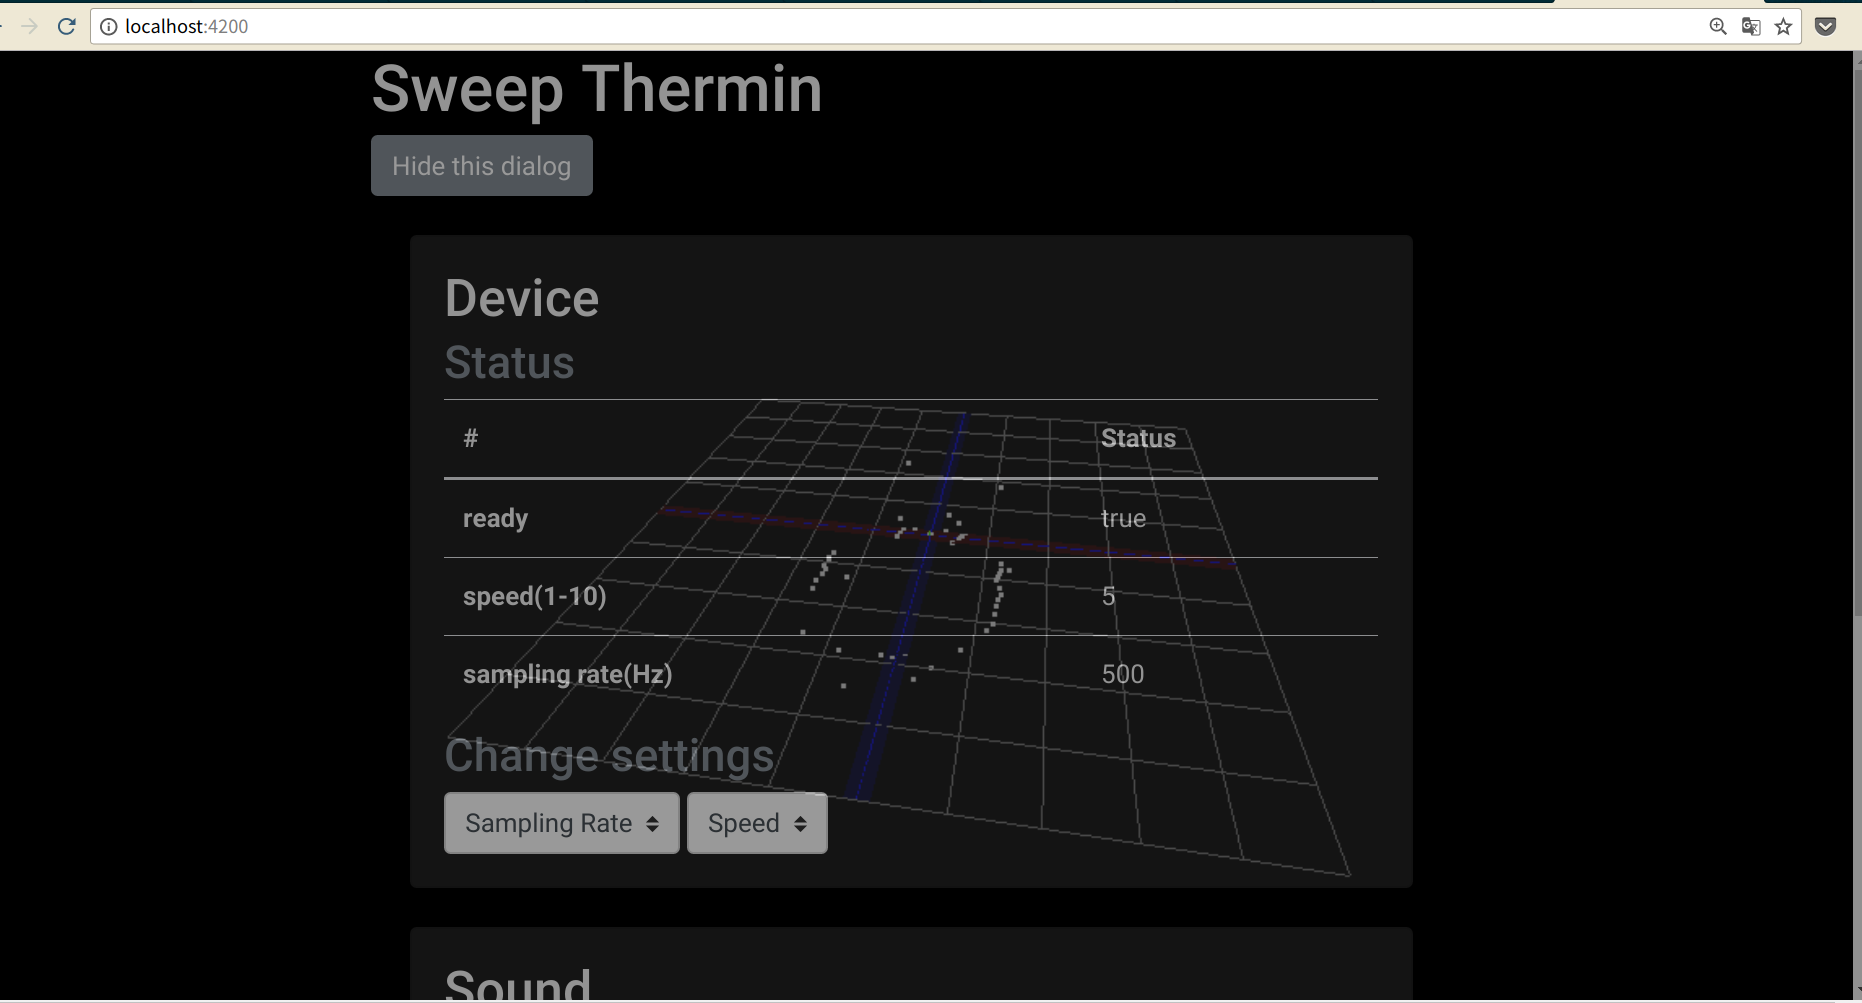
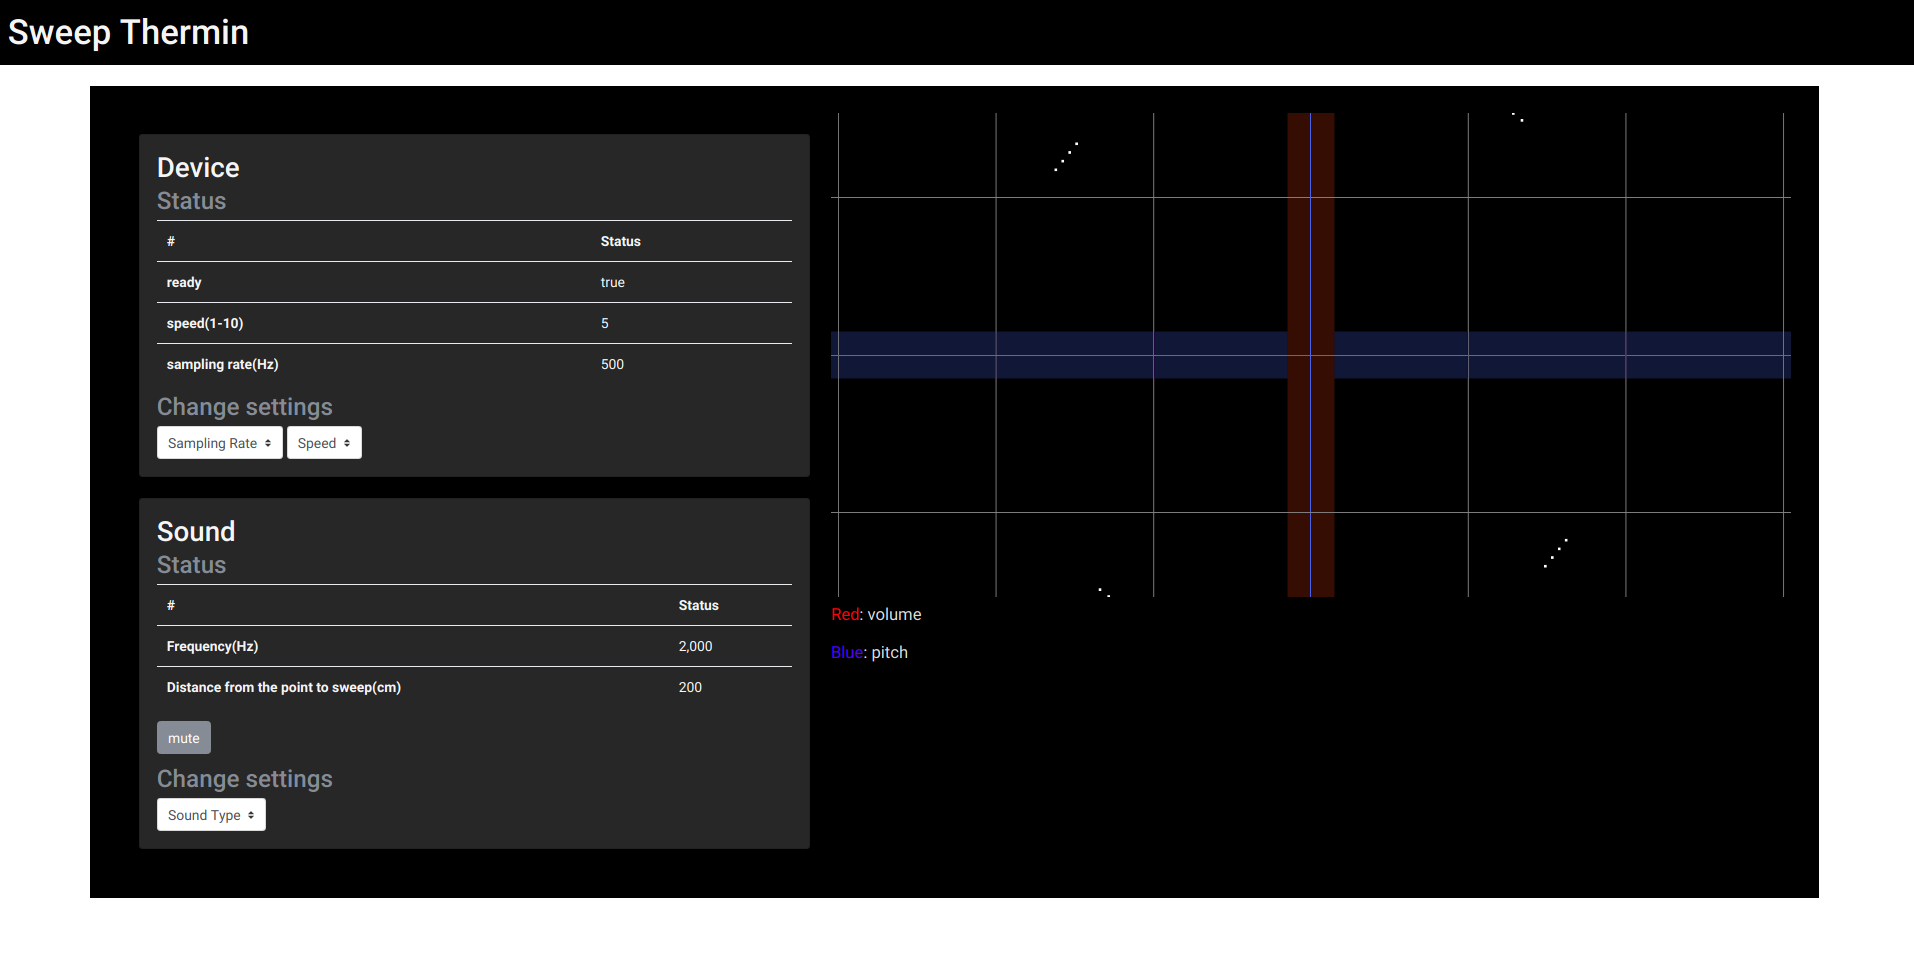
:art: スタイル修正

diff --git a/visualizer/src/app/main/main.component.css b/visualizer/src/app/main/main.component.css
@@ -1,11 +1,23 @@
 .main-container {
-  width: 100%;
+  width: 90%;
+  height: 90%;
+  margin: 1.5em auto 1.5em auto;
   display: flex;
   display: -webkit-flex;
   flex-flow: row;
   align-items: stretch;
+  padding: 2.0em;
 }
 
 app-dialog, app-renderer {
   flex: 1 1 50%;
+}
+
+h1 {
+  color: whitesmoke;
+  padding: 1rem;
+}
+
+* {
+  background-color: black;
 }

diff --git a/visualizer/src/app/main/renderer/renderer.component.css b/visualizer/src/app/main/renderer/renderer.component.css
@@ -2,6 +2,11 @@
   color: whitesmoke;
 }
 
+p {
+  color: gainsboro;
+  font-size: 1.2em;
+}
+
 .red {
   color: red;
 }

diff --git a/visualizer/src/app/main/dialog/device/device.component.css b/visualizer/src/app/main/dialog/device/device.component.css
@@ -1,5 +1,4 @@
 .card {
-  height: 100%;
   margin: 1.5rem;
   background-color: #222222;
 }

diff --git a/visualizer/src/app/main/dialog/dialog.component.css b/visualizer/src/app/main/dialog/dialog.component.css
@@ -1,6 +1,3 @@
 .dialog {
-  right: 0;
-  bottom: 0;
-  left: 0;
   color: whitesmoke;
 }

diff --git a/visualizer/src/app/app.component.css b/visualizer/src/app/app.component.css
@@ -1,0 +1,3 @@
+* {
+  background-color: black;
+}
